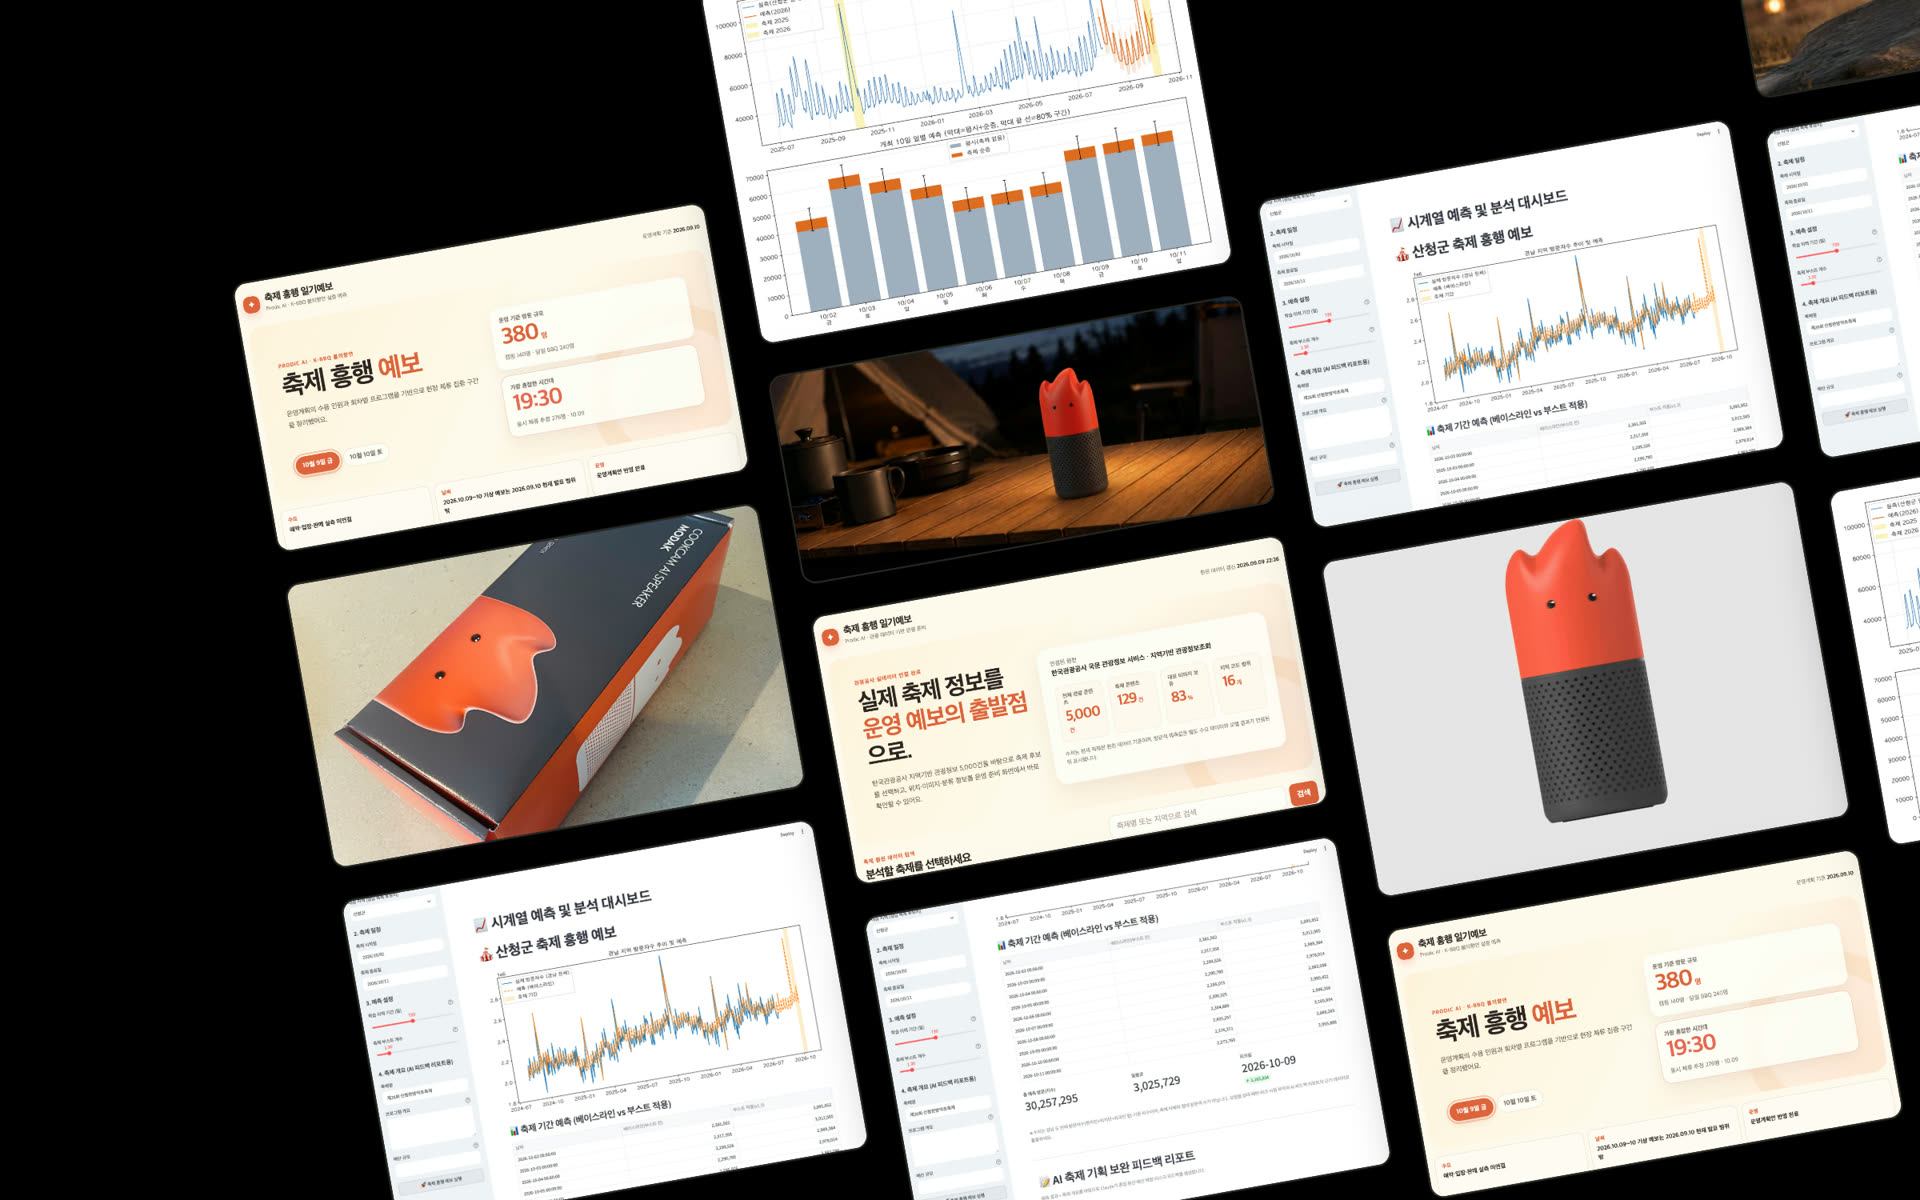
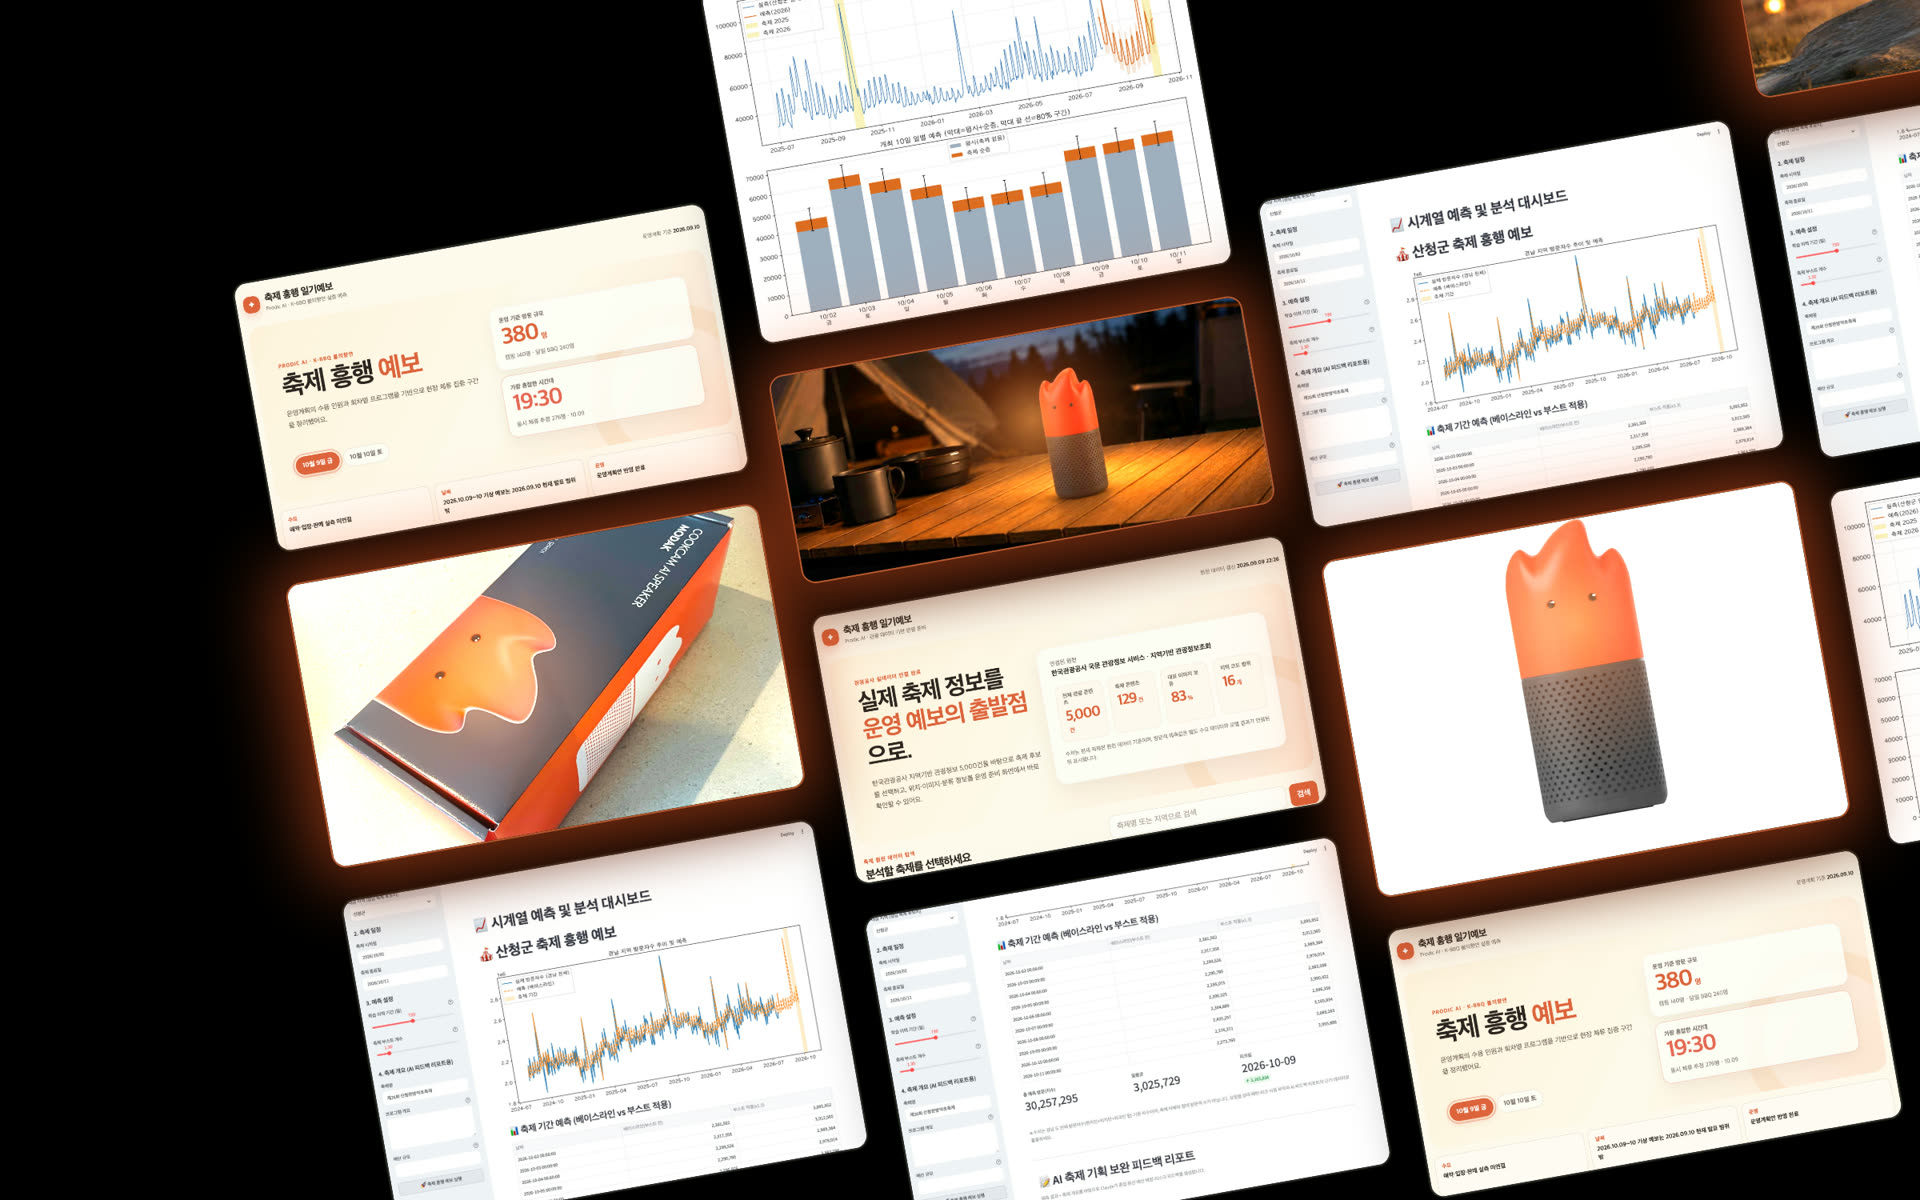
첫 화면 배경의 모닥이에 불 켜진 효과(주황 발광) 추가, 오른쪽 어둡기 완화

Changed region(s): [[0.125, 0.2158, 1.0, 0.8017], [0.875, 0.0, 1.0, 0.1233]]

diff --git a/index.html b/index.html
@@ -122,12 +122,12 @@
     #hero .hero-bg {
       position: absolute; inset: 0;
       background: url('assets/hero-bg.jpg') right center / cover no-repeat;
-      filter: grayscale(0.1) brightness(0.55) contrast(1.05);
+      filter: brightness(0.72) contrast(1.05);
     }
     #hero .hero-bg::after {
       content: ''; position: absolute; inset: 0;
       background:
-        linear-gradient(90deg, #000 0%, rgba(0,0,0,0.9) 30%, rgba(0,0,0,0.35) 60%, rgba(0,0,0,0.25) 100%),
+        linear-gradient(90deg, #000 0%, rgba(0,0,0,0.92) 30%, rgba(0,0,0,0.3) 58%, rgba(0,0,0,0.12) 100%),
         linear-gradient(180deg, rgba(0,0,0,0.6) 0%, rgba(0,0,0,0) 25%, rgba(0,0,0,0) 60%, #000 100%);
     }
     #hero .hero-tag, #hero .hero-title, #hero .hero-sub, #hero .hero-actions { position: relative; z-index: 1; }
